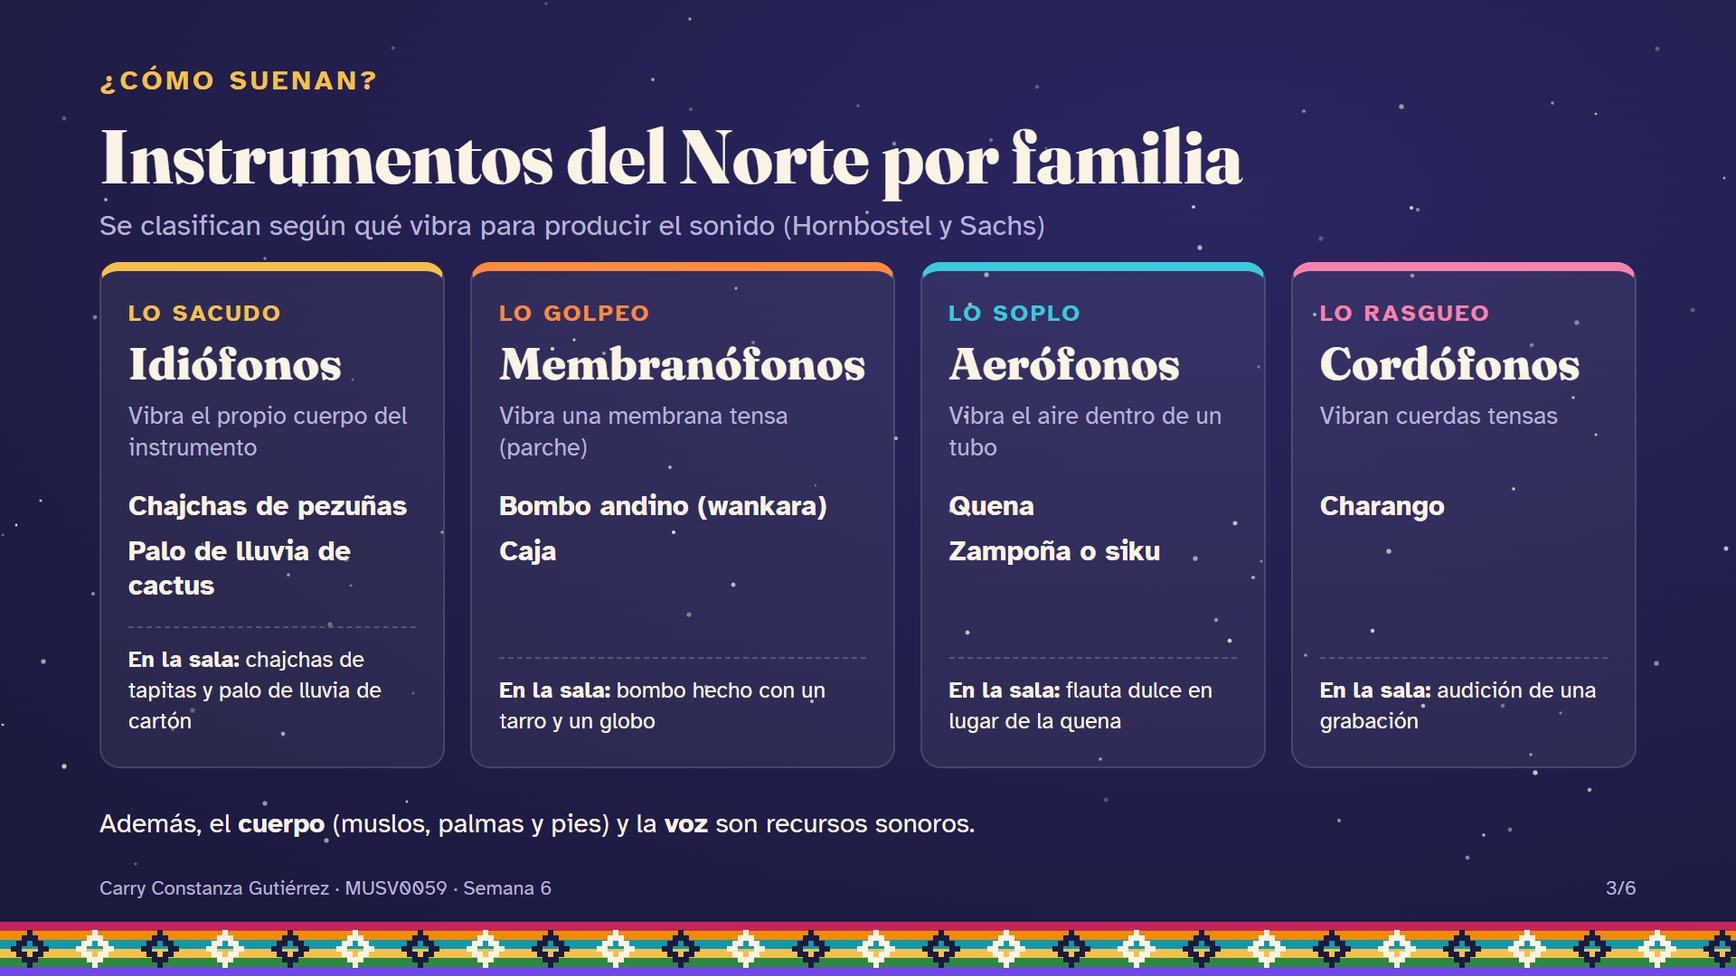
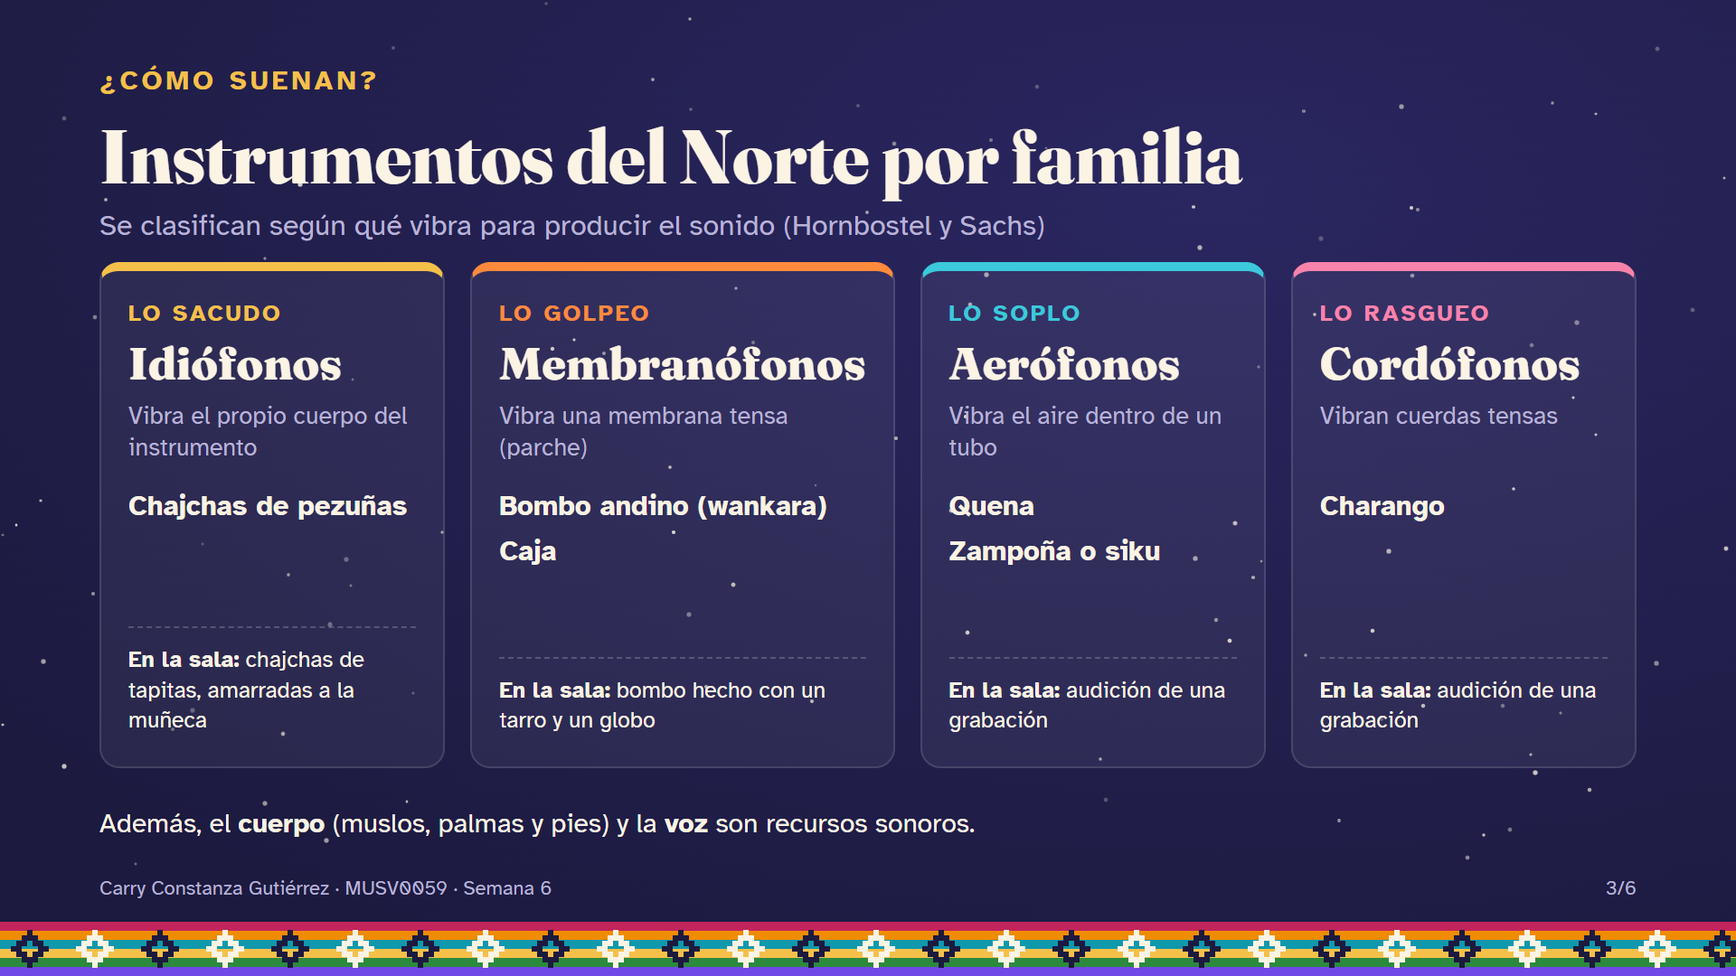
Solo bombo y chajchas, y cómo hacer cada sonido
- El paso 3 explica paso a paso cómo se hace cada sonido (voz, cuerpo,
  bombo y chajchas), con un botón para escuchar cada uno por separado
- Se tocan solo dos instrumentos: el bombo y las chajchas, amarradas a
  la muñeca. El viento del cuento se hace soplando y frotando las
  palmas, y el vuelo del Alicanto con la voz
- La quena, la zampoña y el charango se muestran en la placa 3, que
  ahora indica audición en vez de flauta dulce y palo de lluvia
- Lista de materiales, guion, tomas y revisión con la pauta al día

diff --git a/index.html b/index.html
@@ -126,6 +126,13 @@ button,input,select{font:inherit;color:inherit}
 .fxbtn{min-height:44px;padding:8px 14px;border-radius:999px;border:2px solid var(--line);background:var(--surface2);cursor:pointer;font-weight:700;display:inline-flex;gap:6px;align-items:center;white-space:nowrap}
 .fxbtn svg{width:16px;height:16px}
 @media (max-width:640px){.scene{grid-template-columns:auto 1fr}.scene .fxbtn{grid-column:2;justify-self:start}}
+.sub{font-size:clamp(22px,2.8vw,28px)}
+.como .card{display:grid;grid-template-columns:minmax(0,1fr);gap:8px;align-content:start}
+.como .tag{font-size:13px;font-weight:700;color:var(--accent);text-transform:uppercase;letter-spacing:.08em}
+.como h4{font-family:Fraunces,serif;font-size:22px;margin:0}
+.como ol{margin:0;padding-left:20px;display:grid;gap:6px}
+.como .tip{background:var(--surface2);border-radius:12px;padding:10px 12px;font-size:.92em}
+.como .fxbtn{justify-self:start;white-space:normal;text-align:left}
 .roles{display:grid;grid-template-columns:repeat(auto-fit,minmax(220px,1fr));gap:12px}
 .role{border-radius:16px;padding:16px;background:var(--surface2)}
 .role b{font-family:Fraunces,serif;font-size:19px;display:block;margin-bottom:4px}
@@ -294,7 +301,7 @@ footer a{color:var(--muted)}
   <header><p class="kicker">Paso 2 de 7</p><h2 id="t2">El cuento sonoro del Alicanto</h2><p class="muted">Siete escenas cortas. Cada una tiene un efecto sonoro que los niños producen contigo; tócalo aquí para saber cómo debe sonar.</p></header>
   <div class="task"><b>Tu tarea</b><ol><li>Lee el cuento en voz alta dos veces, cambiando la voz en cada personaje.</li><li>Practica cada efecto con tus instrumentos hasta que salga sin mirar.</li></ol></div>
   <div class="roles" style="margin-bottom:18px">
-    <div class="role"><b>Narradora</b><p class="small">Voz media y pausada, sentada junto al palo de lluvia. Mira a los niños y espera sus respuestas.</p></div>
+    <div class="role"><b>Narradora</b><p class="small">Voz media y pausada, sentada con las chajchas a mano. Mira a los niños y espera sus respuestas.</p></div>
     <div class="role"><b>Don Lucho, el minero</b><p class="small">Sombrero y linterna. Voz grave y lenta; camina encorvado y en silencio.</p></div>
     <div class="role"><b>El Alicanto</b><p class="small">Alas doradas. Voz aguda y brillante; brazos abiertos que aletean despacio porque «comió mucho oro».</p></div>
   </div>
@@ -305,7 +312,12 @@ footer a{color:var(--muted)}
 <!-- PASO 3 -->
 <section class="step" id="paso-3" data-title="Ritmo" aria-labelledby="t3" hidden>
   <header><p class="kicker">Paso 3 de 7</p><h2 id="t3">El ritmo del huayno: VI-cu-ña</h2><p class="muted">Una sílaba larga y dos cortas en cada compás. Primero se dice, después se hace con el cuerpo y al final con el bombo; las chajchas marcan el pulso.</p></header>
-  <div class="task"><b>Tu tarea</b><ol><li>Dale play y di «VI-cu-ña» junto al audio.</li><li>Pásalo a muslos (VI) y palmas (cu-ña); luego al bombo: PUM pa-ta.</li><li>Sube el tempo de a poco hasta ♪ = 160.</li></ol></div>
+  <div class="task"><b>Tu tarea</b><ol><li>Lee cómo se hace cada sonido y escúchalo solo.</li><li>Practica con el audio en este orden: voz, voz con cuerpo, bombo y, al final, bombo con las chajchas en la muñeca.</li><li>Sube el tempo de a poco hasta ♪ = 160.</li></ol></div>
+  <h3 class="sub">Cómo se hace cada sonido</h3>
+  <p class="muted" style="margin:6px 0 16px">Solo tocas dos instrumentos: el bombo y las chajchas. El cuerpo y la voz completan el ritmo.</p>
+  <div class="grid como" id="como"></div>
+  <h3 class="sub" style="margin-top:28px">Practica con el audio</h3>
+  <p class="muted" style="margin:6px 0 16px">Apaga el sonido que vas a hacer tú y tócalo junto a los demás.</p>
   <div class="stage" id="ritmo"></div>
   <div class="next"><a class="btn ghost" href="#paso-2">Anterior</a><a class="btn primary" href="#paso-4">Siguiente: la canción</a></div>
 </section>
@@ -551,13 +563,13 @@ const V = {
 };
 /* efectos del cuento */
 const FX = {
-  viento(t) { const f = nz(t, 2.6, 'bandpass', 500, 2.5, 0.5, 0.9); f.frequency.setValueAtTime(400, t); f.frequency.linearRampToValueAtTime(1300, t + 1.4); f.frequency.linearRampToValueAtTime(500, t + 3.2); FX.lluvia(t + 0.3, 2.6, 0.5); },
+  viento(t) { const f = nz(t, 2.6, 'bandpass', 500, 2.5, 0.5, 0.9); f.frequency.setValueAtTime(400, t); f.frequency.linearRampToValueAtTime(1300, t + 1.4); f.frequency.linearRampToValueAtTime(500, t + 3.2); nz(t + 0.2, 2.4, 'bandpass', 3200, 1.2, 0.12, 0.6); },
   lluvia(t, dur = 3, v = 1) { for (let i = 0; i < 160; i++) { const tt = t + Math.pow(Math.random(), 0.8) * dur; nz(tt, 0.012, 'bandpass', 2500 + Math.random() * 5000, 4, 0.12 * v * (1 - (tt - t) / dur * 0.6)); } },
   pasos(t) { [0, 0.9, 1.8, 2.7].forEach((d, i) => { V.bombo(t + d, 0.55); V.muslos(t + d + 0.02, 0.5); }); },
   brillo(t) { const N = [88, 91, 95, 98, 100, 103]; for (let i = 0; i < 14; i++) { const m = N[Math.floor(Math.random() * N.length)]; tone(t + i * 0.13 + Math.random() * 0.05, 'sine', mtof(m), mtof(m), 0.5, 0.06); } for (let i = 0; i < 8; i++) V.chajchas(t + i * 0.24, 0.35); },
   alas(t) { for (let i = 0; i < 6; i++) { const tt = t + i * 0.45; nz(tt, 0.22, 'bandpass', 900, 0.8, 0.35, 0.08); V.chajchas(tt + 0.05, 0.5); } },
   gracias(t) { V.bombo(t + 0.6, 1); },
-  vuelo(t) { [62, 65, 67, 69, 72, 74, 77].forEach((m, i) => V.flute(t + i * 0.16, mtof(m), 0.2, 1)); for (let b = 0; b < 3; b++) { const tb = t + 1.4 + b * 0.75; V.bombo(tb, 1); V.bombo(tb + 0.375, 0.6); V.bombo(tb + 0.56, 0.6); } },
+  vuelo(t) { tone(t, 'sine', 300, 820, 1.3, 0.2, 0.15); tone(t, 'triangle', 300, 820, 1.3, 0.05, 0.15); for (let b = 0; b < 3; b++) { const tb = t + 1.4 + b * 0.75; V.bombo(tb, 1); V.bombo(tb + 0.375, 0.6); V.bombo(tb + 0.56, 0.6); } },
 };
 
 /* ============ datos musicales: «La vicuñita» ============ */
@@ -672,7 +684,7 @@ function layerToggles(obj, items, onChange) {
 
 /* ============ PASO 1: materiales ============ */
 const MAT = [
-  ['Instrumentos', [['Bombo o tambor', 'Si no tienes, un tarro o balde con un globo tenso.'], ['Chajchas de tapitas', 'Las de la semana 4 sirven.'], ['Palo de lluvia', 'Tubo de cartón, clavos o papel aluminio en espiral y arroz.'], ['Flauta dulce', 'Reemplaza a la quena en el llamado del Alicanto.']]],
+  ['Instrumentos', [['Bombo o tambor', 'Si no tienes, un tarro o balde con un globo tenso.'], ['Chajchas de tapitas', 'Las de la semana 4 sirven, con una cinta para amarrarlas a la muñeca o al tobillo.']]],
   ['Vestuario y objetos', [['Alas doradas del Alicanto', 'Cartón con papel dorado y elásticos para los brazos.'], ['Sombrero o casco y linterna', 'Para don Lucho, el minero.'], ['Aguayo o tela de colores', 'Para el inicio y para guiar la hilera.'], ['Pañuelo', 'Para la hilera imaginaria del baile.']]],
   ['Para mostrar', [['Mapa de Chile', 'Impreso o la placa 2 en pantalla.'], ['Agenda visual', 'Cuatro dibujos: mapa, cuento, tambor y vicuña.'], ['Fotos del Norte', 'Desierto, altiplano con vicuñas y un carnaval.']]],
   ['Para grabar', [['Celular con espacio', 'Graba en horizontal y en 1080p.'], ['Trípode o soporte', 'Una pila de libros también sirve.'], ['Audífonos con cable', 'Para escuchar las pistas sin que se graben.']]],
@@ -696,18 +708,43 @@ PLACAS.forEach(([f, t], i) => $('#placas').append(h('a', { href: `placas/${f}.pn
 
 /* ============ PASO 2: cuento ============ */
 const SCENES = [
-  ['Muy al norte de Chile hay un desierto enorme, el desierto de Atacama, donde casi nunca llueve. De día el sol quema y de noche sopla un viento frío…', 'Viento: todos soplan «fffff» y giras despacio el palo de lluvia.', 'viento'],
+  ['Muy al norte de Chile hay un desierto enorme, el desierto de Atacama, donde casi nunca llueve. De día el sol quema y de noche sopla un viento frío…', 'Viento: todos soplan «fffff» y frotan las palmas de las manos.', 'viento'],
   ['Allí vivía don Lucho, un minero que buscaba piedras brillantes dentro de los cerros. Cada noche caminaba despacito con su linterna.', 'Pasos: golpes lentos en los muslos y en el bombo. Pum… pum… pum…', 'pasos'],
   ['Una noche, entre los cerros, apareció una luz dorada. ¡Era el Alicanto! Un pájaro mágico que come oro y plata, y por eso sus alas brillan en la oscuridad.', 'Brillo: chajchas suaves; manos que se abren y se cierran como estrellas.', 'brillo'],
   ['El Alicanto había comido tanto que volaba lento, muy lento… y don Lucho lo siguió sin hacer ruido, hasta una cueva llena de piedras que brillaban.', 'Alas: chajchas y brazos que aletean despacio; «shhh» para caminar en silencio.', 'alas'],
   ['Don Lucho tomó solo unas piedritas, las que necesitaba para su familia, y dijo: «Gracias, Alicanto. Gracias, tierra».', 'Gracias: silencio… y un solo golpe de bombo.', 'gracias'],
-  ['El Alicanto, contento, voló alto, muy alto, hasta el altiplano, donde las vicuñas saltan entre los pastos y la gente celebra el carnaval con bombo y zampoña.', 'Vuelo y carnaval: la flauta sube y el bombo empieza «PUM pa-ta».', 'vuelo'],
+  ['El Alicanto, contento, voló alto, muy alto, hasta el altiplano, donde las vicuñas saltan entre los pastos y la gente celebra el carnaval con bombo y zampoña.', 'Vuelo y carnaval: un «uuu» con la voz que sube, y el bombo empieza «PUM pa-ta».', 'vuelo'],
   ['¿Vamos nosotros también al carnaval de las vicuñas?', 'Paso a la canción y al baile.', null],
 ];
 SCENES.forEach(([text, fx, key], i) => {
   const btn = key ? h('button', { class: 'fxbtn', type: 'button', html: ICON.sound + '<span>Escuchar efecto</span>', 'aria-label': `Escuchar efecto de la escena ${i + 1}`, onclick: () => { audio(); stopAll(); FX[key](ctx.currentTime + 0.05); } }) : null;
   $('#scenes').append(h('div', { class: 'card scene' }, [h('span', { class: 'n', text: String(i + 1) }), h('div', {}, [h('p', { text: text }), h('p', { class: 'fx', text: fx })]), btn]));
 });
+
+/* ============ PASO 3: cómo se hace cada sonido ============ */
+const COMO = [
+  { t: 'Voz', fam: 'Recurso sonoro', steps: ['Di «VI» largo y un poco más fuerte: dura lo mismo que «cu-ña» juntas.', 'Di «cu-ña» corto y liviano, pegadito.', 'Repite sin parar, como si caminaras: VI-cu-ña, VI-cu-ña…'], tip: 'Si te enredas, di solo «VI» en cada pulso y agrega «cu-ña» después.' },
+  { t: 'Cuerpo', fam: 'Percusión corporal', steps: ['Siéntate o párate con las rodillas un poco dobladas.', '«VI»: golpea los muslos con las dos manos planas al mismo tiempo. Suena grave: tum.', '«cu-ña»: dos palmadas rápidas frente al pecho.'], tip: 'Muslos abajo y palmas arriba: así los niños lo ven desde lejos.', demo: 'cuerpo' },
+  { t: 'Bombo', fam: 'Membranófono', steps: ['Pon el bombo o el tarro de lado sobre tu muslo, o en el suelo entre las piernas.', 'Toma el mazo con la mano con que escribes, como un lápiz grueso, sin apretar.', '«PUM»: golpe firme al centro del parche; deja que el mazo rebote.', '«pa-ta»: dos golpes cortos y suaves, más cerca del borde.'], tip: 'El movimiento sale de la muñeca, no del brazo entero.', demo: 'bombo' },
+  { t: 'Chajchas', fam: 'Idiófono', steps: ['Amárralas a la muñeca de la mano del mazo, o tómalas de la cinta.', 'Sacude una vez hacia abajo y frena en seco: así el sonido sale limpio.', 'Solo en el pulso: fuerte en «VI» y suave en «cu». No las agites todo el rato.'], tip: 'Amarradas a la muñeca suenan solas con cada golpe de bombo: dos instrumentos con una sola mano. También puedes amarrarlas al tobillo y marcar el pulso con el pie.', demo: 'chajchas' },
+];
+function demoSonido(k) {
+  audio(); stopAll();
+  const sd = stepDur(RT.tempo); let t = ctx.currentTime + 0.1;
+  for (let b = 0; b < 4; b++) for (let st = 0; st < 4; st++, t += sd) {
+    if (k === 'bombo' && (st === 0 || st >= 2)) V.bombo(t, st === 0 ? 1 : 0.6);
+    if (k === 'cuerpo') { if (st === 0) V.muslos(t, 1); else if (st >= 2) V.palmas(t, 0.8); }
+    if (k === 'chajchas' && st % 2 === 0) V.chajchas(t, st === 0 ? 1 : 0.7);
+  }
+}
+for (const c of COMO) {
+  $('#como').append(h('div', { class: 'card' }, [
+    h('span', { class: 'tag', text: c.fam }), h('h4', { text: c.t }),
+    h('ol', {}, c.steps.map(x => h('li', { text: x }))),
+    h('p', { class: 'tip', text: c.tip }),
+    c.demo ? h('button', { class: 'fxbtn', type: 'button', html: ICON.sound + '<span>Escuchar este sonido</span>', 'aria-label': 'Escuchar este sonido: ' + c.t, onclick: () => demoSonido(c.demo) }) : h('p', { class: 'small muted', text: 'Este lo dices tú: dale play abajo y dilo junto al audio.' }),
+  ]));
+}
 
 /* ============ PASO 3: ritmo ============ */
 (function ritmo() {
@@ -915,7 +952,7 @@ const SEGMENTS = [
   { id: 'pres', from: 0, to: 20, part: 'Presentación', color: '#f5c04a', see: 'A cámara. Placa 1 los primeros segundos.', take: 'Toma 9' },
   { id: 'inicio', from: 20, to: 80, part: 'Inicio', color: '#ffad6b', see: 'Como educadora: saludo con bombo, agenda, mapa (placa 2) y aguayo.', take: 'Toma 6' },
   { id: 'cuento', from: 80, to: 185, part: 'Cuento sonoro', color: '#b197fc', see: 'Narradora, don Lucho y el Alicanto, con los efectos.', take: 'Toma 5' },
-  { id: 'instr', from: 185, to: 235, part: 'Instrumentos', color: '#66d9e8', see: 'Muestras y clasificas cada instrumento (placa 3).', take: 'Toma 7' },
+  { id: 'instr', from: 185, to: 235, part: 'Instrumentos', color: '#66d9e8', see: 'Tocas el bombo y las chajchas y muestras los demás en la placa 3.', take: 'Toma 7' },
   { id: 'ritmo', from: 235, to: 285, part: 'Ritmo', color: '#8ce99a', see: 'VI-cu-ña con la voz, el cuerpo y el bombo (placa 4).', take: 'Toma 4' },
   { id: 'voz', from: 285, to: 335, part: 'Voz', color: '#ffc9c9', see: 'Juegos de voz y enseñanza en eco de A y B (placa 5).', take: 'Toma 8' },
   { id: 'cancion', from: 335, to: 425, part: 'Canción y baile', color: '#f783ac', see: 'Cantas y bailas con tu base de bombo y chajchas.', take: 'Tomas 1 a 3' },
@@ -924,12 +961,12 @@ const SEGMENTS = [
 const SCRIPT = {
   pres: [['', 'Hola, soy Carry Constanza Gutiérrez. Les presento «El Alicanto y la vicuñita», una experiencia artístico-musical para Nivel Transición inspirada en la Zona Norte de Chile. El objetivo es que los niños y niñas interpreten un huayno integrando la voz, el cuerpo, instrumentos y el baile, a partir de un mito del desierto. Hice el trabajo de forma individual, así que asumo todos los roles.']],
   inicio: [['Bombo: PUM pa-ta, PUM pa-ta.', '¡Buenos días, niños y niñas! Hoy nos vamos de viaje. Miren nuestra agenda: primero el mapa, después un cuento, luego el tambor y al final… ¡bailamos con las vicuñas!'], ['Muestra el mapa.', '¿Dónde estará el Norte en nuestro mapa? ¡Muy bien, arriba! Desde Arica hasta Coquimbo está la Zona Norte. Ahí hay un desierto enorme, el desierto de Atacama, donde casi nunca llueve: de día hace mucho calor y de noche, mucho frío. Más arriba, en los cerros altos del altiplano, viven las vicuñas, las llamas y los flamencos.'], ['Muestra el aguayo.', 'Ahí viven pueblos como los aymara, los quechua y los lickanantay, que tejen telas de colores como este aguayo. ¿Lo quieren tocar? Cuando hay carnaval, cantan y bailan con bombo, zampoña y charango.']],
-  cuento: [['Te sientas junto al palo de lluvia.', 'Ahora les voy a contar un cuento, y ustedes me van a ayudar con los sonidos. ¿Listos?'], ['Palo de lluvia. Todos soplan.', 'Muy al norte de Chile hay un desierto enorme, el desierto de Atacama, donde casi nunca llueve. De día el sol quema y de noche sopla un viento frío… ¡Soplemos como el viento! Fffff…'], ['Sombrero y linterna. Voz grave. Bombo lento.', 'Allí vivía don Lucho, un minero que buscaba piedras brillantes dentro de los cerros. Cada noche caminaba despacito con su linterna… pum… pum… pum…'], ['Chajchas suaves.', 'Una noche, entre los cerros, apareció una luz dorada. ¡Era el Alicanto! Un pájaro mágico que come oro y plata, y por eso sus alas brillan en la oscuridad.'], ['Alas doradas. Voz aguda. Aleteo lento.', '«Comí tanto oro que vuelo despacito…» El Alicanto voló lento, muy lento, y don Lucho lo siguió sin hacer ruido… shhh… hasta una cueva llena de piedras que brillaban.'], ['Voz de don Lucho. Un golpe de bombo.', 'Don Lucho tomó solo unas piedritas, las que necesitaba para su familia, y dijo: «Gracias, Alicanto. Gracias, tierra».'], ['Flauta que sube; bombo PUM pa-ta.', 'El Alicanto, contento, voló alto, muy alto, hasta el altiplano, donde las vicuñas saltan entre los pastos y la gente celebra el carnaval. ¿Vamos nosotros también al carnaval de las vicuñas?']],
-  instr: [['Muestra cada instrumento y hazlo sonar.', 'Para el carnaval necesitamos instrumentos. Estas son chajchas: en el Norte se hacen con pezuñas de llama o de cabra; yo las hice con tapitas. Las sacudo y suena todo el instrumento: es un idiófono, igual que el palo de lluvia. El bombo tiene un parche que vibra cuando lo golpeo: es un membranófono. La quena y la zampoña se soplan; vibra el aire dentro del tubo: son aerófonos. Yo uso la flauta dulce en lugar de la quena. Y el charango tiene cuerdas que vibran: es un cordófono. Lo sacudo, lo golpeo, lo soplo y lo rasgueo.']],
+  cuento: [['Te sientas con las chajchas a mano.', 'Ahora les voy a contar un cuento, y ustedes me van a ayudar con los sonidos. ¿Listos?'], ['Soplas y frotas las palmas.', 'Muy al norte de Chile hay un desierto enorme, el desierto de Atacama, donde casi nunca llueve. De día el sol quema y de noche sopla un viento frío… ¡Soplemos como el viento! Fffff…'], ['Sombrero y linterna. Voz grave. Bombo lento.', 'Allí vivía don Lucho, un minero que buscaba piedras brillantes dentro de los cerros. Cada noche caminaba despacito con su linterna… pum… pum… pum…'], ['Chajchas suaves.', 'Una noche, entre los cerros, apareció una luz dorada. ¡Era el Alicanto! Un pájaro mágico que come oro y plata, y por eso sus alas brillan en la oscuridad.'], ['Alas doradas. Voz aguda. Aleteo lento.', '«Comí tanto oro que vuelo despacito…» El Alicanto voló lento, muy lento, y don Lucho lo siguió sin hacer ruido… shhh… hasta una cueva llena de piedras que brillaban.'], ['Voz de don Lucho. Un golpe de bombo.', 'Don Lucho tomó solo unas piedritas, las que necesitaba para su familia, y dijo: «Gracias, Alicanto. Gracias, tierra».'], ['«Uuu» con la voz, que sube; bombo PUM pa-ta.', 'El Alicanto, contento, voló alto, muy alto, hasta el altiplano, donde las vicuñas saltan entre los pastos y la gente celebra el carnaval. ¿Vamos nosotros también al carnaval de las vicuñas?']],
+  instr: [['Toca las chajchas y el bombo; los demás, con la placa 3.', 'Para el carnaval necesitamos instrumentos. Estas son chajchas: en el Norte se hacen con pezuñas de llama o de cabra; yo las hice con tapitas. Las sacudo y suena todo el instrumento: es un idiófono. El bombo tiene un parche que vibra cuando lo golpeo: es un membranófono. En el Norte también se tocan la quena y la zampoña, que se soplan: vibra el aire dentro del tubo, son aerófonos. Y el charango tiene cuerdas que vibran: es un cordófono. Lo sacudo, lo golpeo, lo soplo y lo rasgueo.']],
   ritmo: [['', 'Ahora vamos a aprender el ritmo del huayno con una palabra: vi-cu-ña. Una sílaba larga y dos cortas: VI-cu-ña, VI-cu-ña. ¡Díganlo conmigo!'], ['Muslos en VI, palmas en cu-ña.', 'Ahora con el cuerpo: muslos, palma, palma. ¡Excelente!'], ['Bombo, luego chajchas en el pulso.', 'Y ahora el bombo: PUM pa-ta, PUM pa-ta. Las chajchas marcan el pulso: uno, dos, uno, dos. Cuando el bombo se calla… ¡quietos como vicuñas!']],
   voz: [['Inspira 4, suelta 4.', 'Antes de cantar, preparamos la voz. Olemos una flor… y soplamos la vela despacito: sssss.'], ['Bostezo y llamado.', 'Bostezamos como el cóndor y llamamos a la vicuña del cerro: uuuu… oooo.'], ['Boca de pez.', 'Boca de pez: vi-cu-ñi-ta. ¡Muy bien!'], ['Canta y deja el espacio del eco.', 'Escuchen y repitan: «De las punas bravas vengo como palomita, ¡ay!» … «saltando, brincando como vicuñita, ¡ay!»']],
   cancion: [['Base de bombo y chajchas. Baile: serpentina, saltitos, círculo, caracol, puente.', 'De las punas bravas vengo como palomita, ¡ay! (×2) · Saltando, brincando como vicuñita, ¡ay! (×2) · De las punas bravas qué podrá crecer (×2) · Hierbas del olvido para olvidarte (×2)'], ['Segunda vuelta: invita a los niños a cantar A y B contigo.', '¡Ahora todos conmigo!']],
-  cierre: [['Palo de lluvia lento. Sentados en círculo.', 'Nos sentamos en círculo y respiramos despacito… ¿Qué parte del viaje les gustó más? ¿Qué instrumento sonó como las alas del Alicanto? ¡Las chajchas!'], ['Bombo. Placa 6.', 'En el Norte, cuando termina el carnaval, la gente se despide bailando la cacharpaya. Así que nos despedimos bailando: ¡hasta el próximo carnaval!']],
+  cierre: [['Chajchas muy suaves. Sentados en círculo.', 'Nos sentamos en círculo y respiramos despacito… ¿Qué parte del viaje les gustó más? ¿Qué instrumento sonó como las alas del Alicanto? ¡Las chajchas!'], ['Bombo. Placa 6.', 'En el Norte, cuando termina el carnaval, la gente se despide bailando la cacharpaya. Así que nos despedimos bailando: ¡hasta el próximo carnaval!']],
 };
 (function grabar() {
   const tl = $('#timeline');
@@ -949,9 +986,9 @@ const SCRIPT = {
     ['Ritmo', 'En vivo, sin pista: VI-cu-ña con la voz, el cuerpo y el bombo.'],
     ['Cuento sonoro', 'Con vestuario: cambia de sombrero y alas en la misma toma o en tomas cortas.'],
     ['Inicio', 'Bombo, agenda, mapa y aguayo.'],
-    ['Instrumentos', 'Haz sonar cada uno antes de nombrar su familia.'],
+    ['Instrumentos', 'Haz sonar el bombo y las chajchas antes de nombrar su familia; la quena, la zampoña y el charango los muestras con la placa 3.'],
     ['Voz', 'Juegos de voz y eco de las frases A y B; deja silencios para la respuesta.'],
-    ['Presentación y cierre', 'A cámara, con el palo de lluvia para la vuelta a la calma.'],
+    ['Presentación y cierre', 'A cámara; para la vuelta a la calma, chajchas muy suaves.'],
   ];
   const PRESET = {
     bombo: { on: { melodia: true, acordes: true, bombo: false, chajchas: false, clic: true }, msg: 'Pista para la toma 1: clic, acordes y melodía. Tú pones el bombo.' },
@@ -978,7 +1015,7 @@ const SCRIPT = {
 /* ============ PASO 7: criterios ============ */
 const CRIT = [
   ['1. Zona natural (10)', 'Inicio: mapa (placa 2), desierto, altiplano, pueblos y carnaval.'],
-  ['2. Instrumentos (10)', 'Instrumentos: cada uno suena y se nombra su familia (placa 3).'],
+  ['2. Instrumentos (10)', 'Instrumentos: bombo y chajchas suenan en vivo y los cinco se clasifican por familia (placa 3).'],
   ['3. Narración y dramatización (15)', 'Cuento sonoro con tres voces, vestuario y efectos.'],
   ['4. Canto (15)', 'Juegos de voz y canción completa afinada, respirando entre frases.'],
   ['5. Ritmos (15)', 'VI-cu-ña en voz, cuerpo y bombo; base de bombo y chajchas en la canción.'],
